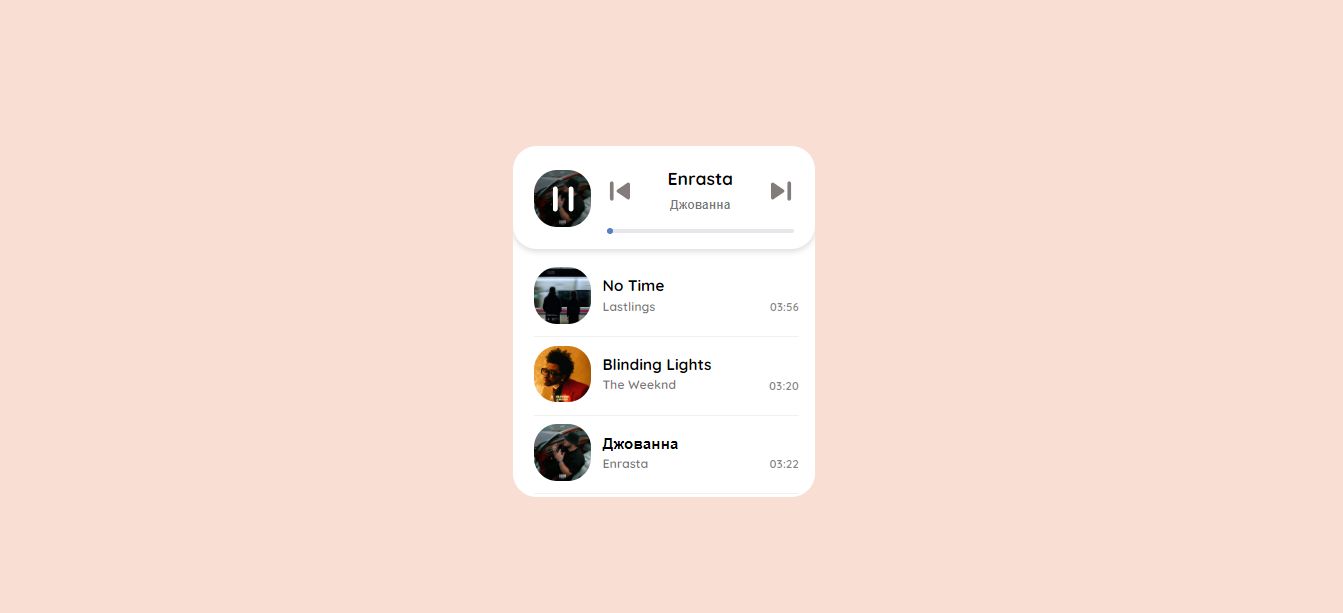
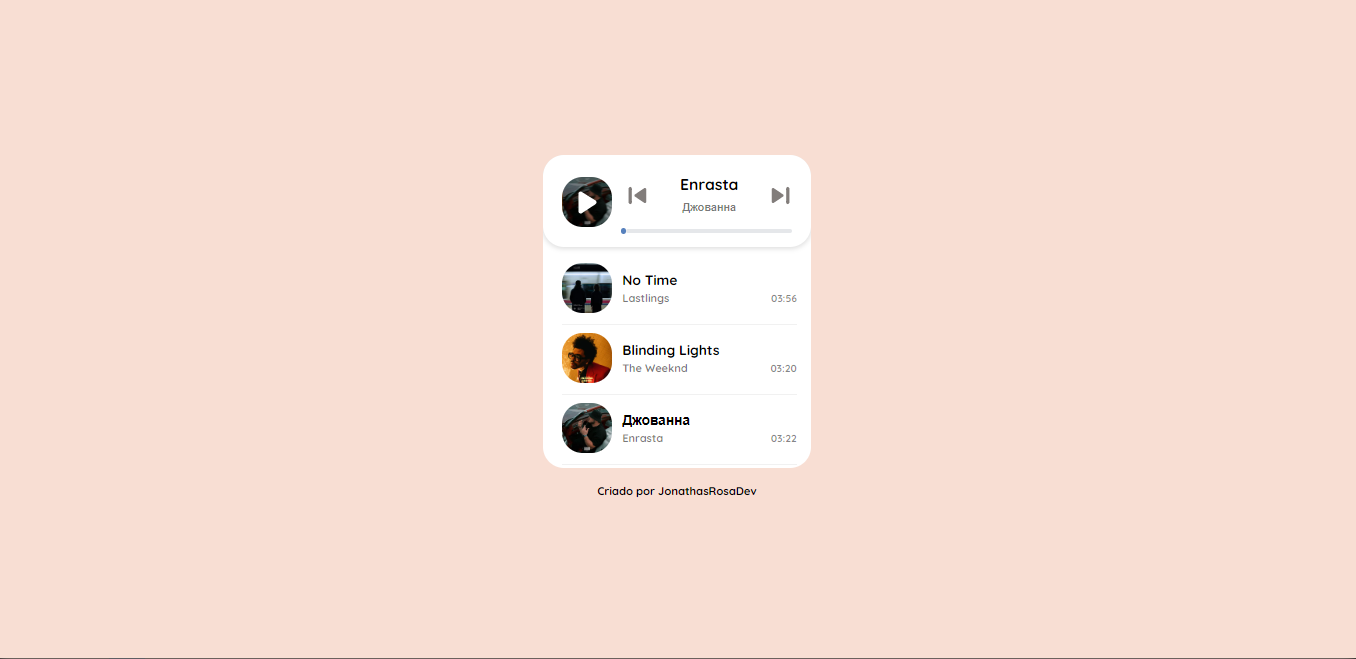
Update README.md

Changed region(s): [[0.3663, 0.217, 0.6106, 0.8369], [0.0, 0.9918, 1.0, 1.0]]

diff --git a/style.css b/style.css
@@ -19,6 +19,7 @@ body{
 margin: 0 ;
 height: 100vh ;
 display: flex ;
+flex-direction: column;
 user-select: none ;
 align-items: center ;
 justify-content: center ;
@@ -273,6 +274,6 @@ display: none !important ;}
 .footer , a {
     text-decoration: none;
     margin-top: 20px;
-    color: #FFF;
+    color: black;
     font-size: 14px;
 }
